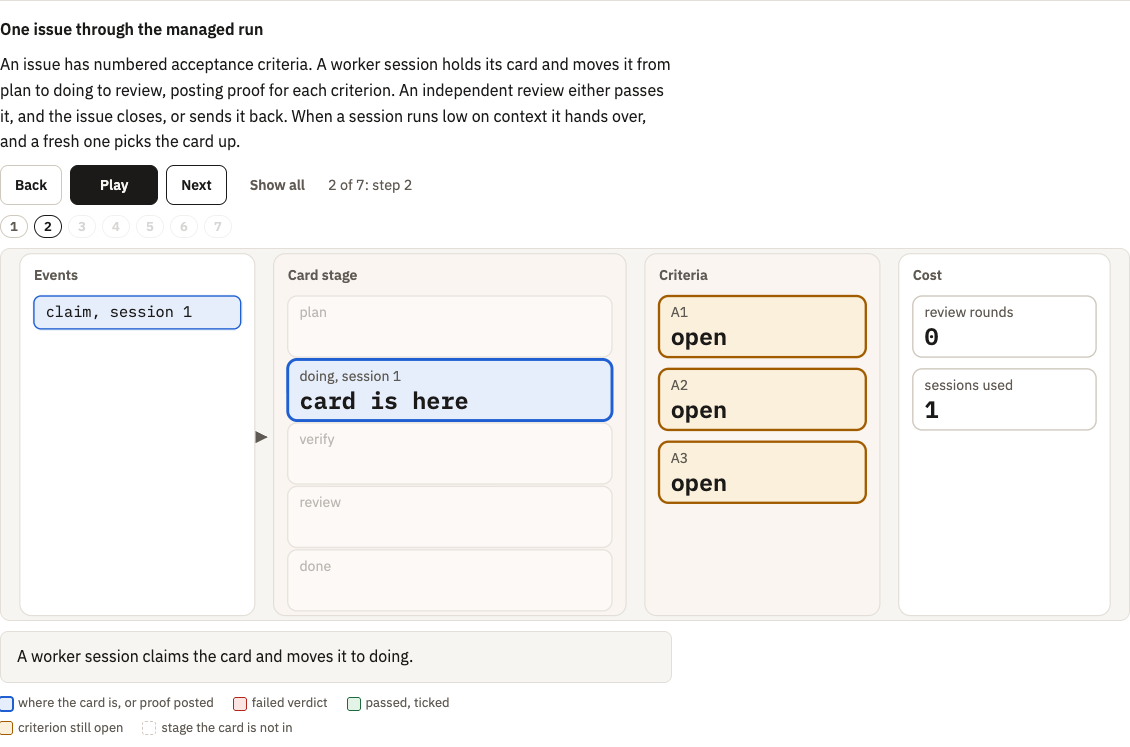
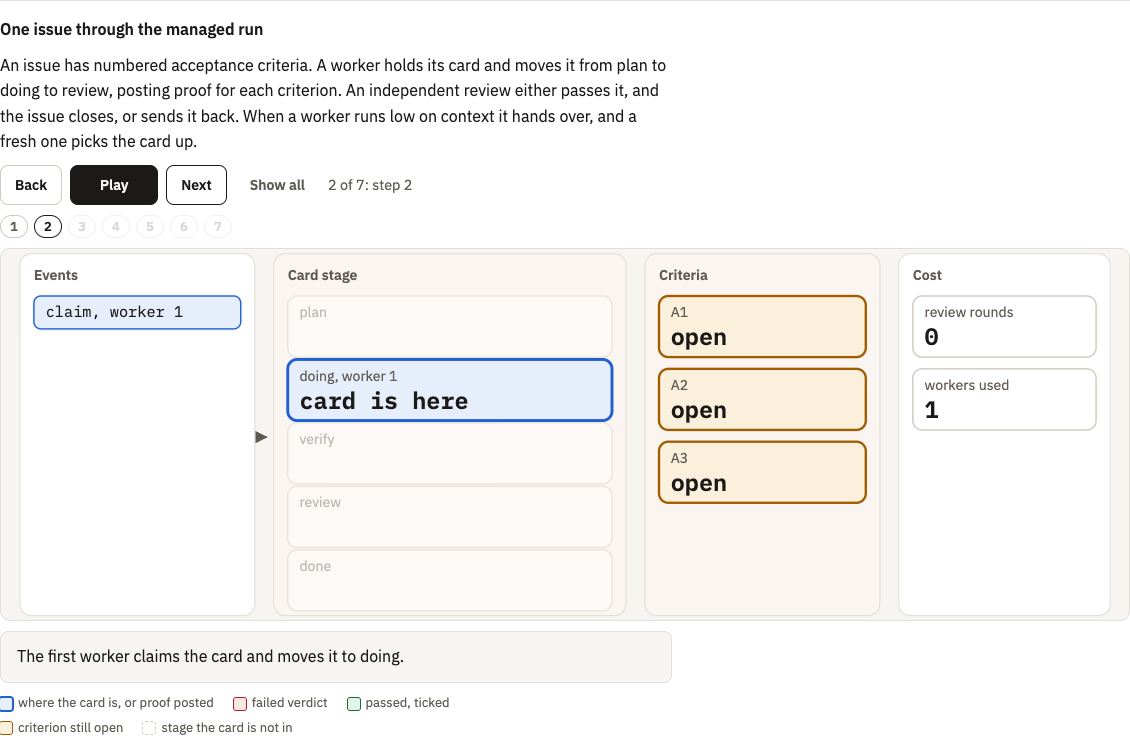
Review site: loop explainer says criterion and worker instead of A1 and session 1; commits counted by author date with the rule stated; a line explains why per-day sessions exceed the total (#188 leftovers)

diff --git a/architecture-review/src/sim/loop.ts b/architecture-review/src/sim/loop.ts
@@ -63,7 +63,7 @@ export function runLoop(script: Event[][]): Frame[] {
 
 export const LOOP_SCRIPT = {
   title: "One issue through the managed run",
-  lede: "An issue has numbered acceptance criteria. A worker session holds its card and moves it from plan to doing to review, posting proof for each criterion. An independent review either passes it, and the issue closes, or sends it back. When a session runs low on context it hands over, and a fresh one picks the card up.",
+  lede: "An issue has numbered acceptance criteria. A worker holds its card and moves it from plan to doing to review, posting proof for each criterion. An independent review either passes it, and the issue closes, or sends it back. When a worker runs low on context it hands over, and a fresh one picks the card up.",
   script: [
     [{ kind: "open" }],
     [{ kind: "claim" }],
@@ -74,12 +74,12 @@ export const LOOP_SCRIPT = {
     [{ kind: "pass" }],
   ] as Event[][],
   notes: [
-    "The issue is opened with three acceptance criteria, A1 to A3, all open, and its card waits at plan.",
-    "A worker session claims the card and moves it to doing.",
+    "The issue is opened with three acceptance criteria, criterion 1 to criterion 3, all open, and its card waits at plan.",
+    "The first worker claims the card and moves it to doing.",
     "The worker posts proof for every criterion at a named commit, and the card moves to review.",
-    "The independent review fails A2. The card goes back to doing, A2 is open again, and the review round count goes to 1.",
-    "At 30% context the worker writes a handover and releases the card, and a fresh session claims it and goes on.",
-    "The new session posts proof for A2 only, since A1 and A3 already have proof, and the card returns to review.",
-    "The second review passes: all criteria are ticked, the orchestrator closes the issue, and the run took 2 review rounds and 2 sessions.",
+    "The independent review fails criterion 2. The card goes back to doing, criterion 2 is open again, and the review round count goes to 1.",
+    "At 30% context the worker writes a handover and releases the card, and a second worker claims it and goes on.",
+    "The second worker posts proof for criterion 2 only, since criteria 1 and 3 already have proof, and the card returns to review.",
+    "The second review passes: all criteria are ticked, the orchestrator closes the issue, and the run took 2 review rounds and 2 workers.",
   ],
 };

diff --git a/architecture-review/src/explain/loop.ts b/architecture-review/src/explain/loop.ts
@@ -8,7 +8,7 @@ const boxY = (index: number, gap = 54) => 40 + index * gap;
 function eventChip(event: Event, frame: Frame): { label: string; swatch: Swatch } {
   switch (event.kind) {
     case "open": return { label: "issue opened", swatch: "accent" };
-    case "claim": return { label: `claim, session ${frame.state.sessions}`, swatch: "accent" };
+    case "claim": return { label: `claim, worker ${frame.state.sessions}`, swatch: "accent" };
     case "proof": return { label: "proof posted", swatch: "accent" };
     case "fail": return { label: `verdict fail, A${event.criterion + 1}`, swatch: "remove" };
     case "handover": return { label: "handover, card released", swatch: "warn" };
@@ -24,7 +24,7 @@ function draw(frame: Frame): string {
   }).join("");
   const stages = STAGES.map((stage, index) => {
     const current = stage === state.stage;
-    const held = current && state.holder !== null ? `session ${state.holder}` : current && !state.closed ? "no session" : current ? "closed" : "";
+    const held = current && state.holder !== null ? `worker ${state.holder}` : current && !state.closed ? "no worker" : current ? "closed" : "";
     return box({ x: LANES.stage + 12, y: boxY(index), width: 276, key: held ? `${stage}, ${held}` : stage, value: current ? "card is here" : "", swatch: current ? "touched" : "dim", delay: 300 });
   }).join("");
   const criteria = state.criteria.map((status, index) => box({
@@ -32,7 +32,7 @@ function draw(frame: Frame): string {
     value: status === "open" ? "open" : status === "proof" ? "proof posted" : "ticked",
     swatch: status === "open" ? "warn" : status === "proof" ? "touched" : "add", delay: 450,
   })).join("");
-  const cost = [["review rounds", state.rounds], ["sessions used", state.sessions]].map(([key, value], index) => box({
+  const cost = [["review rounds", state.rounds], ["workers used", state.sessions]].map(([key, value], index) => box({
     x: LANES.cost + 12, y: boxY(index, 62), width: 156, key: String(key), value: String(value), swatch: "accent", delay: 600,
   })).join("");
   return svg(HEIGHT, "One issue moving through plan, doing, review and done, with its criteria and cost", `

diff --git a/architecture-review/src/main.ts b/architecture-review/src/main.ts
@@ -39,6 +39,7 @@ function header(review: WeekReview) {
         <div><dt>Lines added</dt><dd>+${number(totals.added)}</dd></div>
         <div><dt>Lines removed</dt><dd>−${number(totals.deleted)}</dd></div>
       </dl>
+      <p class="quiet">Commits are counted by author date, lines per file as git log --numstat reports them with --no-renames, so a renamed file counts as removed and added.</p>
     </header>`;
 }
 
@@ -245,6 +246,7 @@ function tokens(review: WeekReview) {
       </dl>
       <div class="tabs" role="tablist" aria-label="Token charts">${panels.map((panel, index) => `<button type="button" role="tab" id="tab-${panel.id}" aria-controls="panel-${panel.id}" aria-selected="${index === 0}" tabindex="${index === 0 ? 0 : -1}">${panel.title}</button>`).join("")}</div>
       ${panels.map((panel, index) => `<div class="tab-panel" role="tabpanel" id="panel-${panel.id}" aria-labelledby="tab-${panel.id}"${index === 0 ? "" : " hidden"}>${panel.body}</div>`).join("")}
+      <p class="quiet">Sessions that span days count once in each day, so the days add up to more than the total.</p>
       <details class="method"><summary>How these numbers were counted</summary><p>${escape(data.method)}</p><p>${escape(data.weights)}</p></details>
     </section>`;
 }
